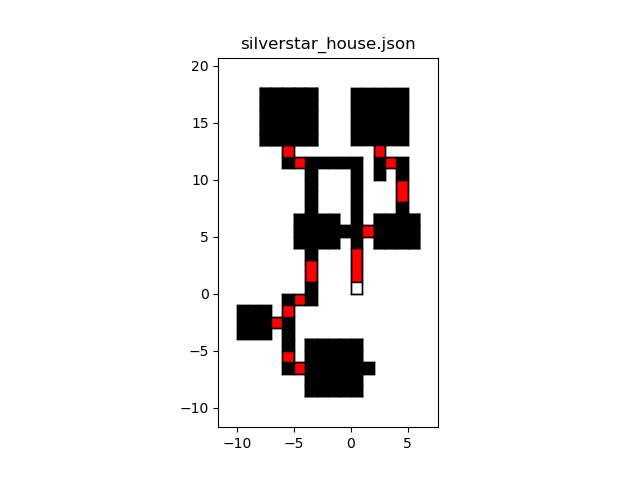
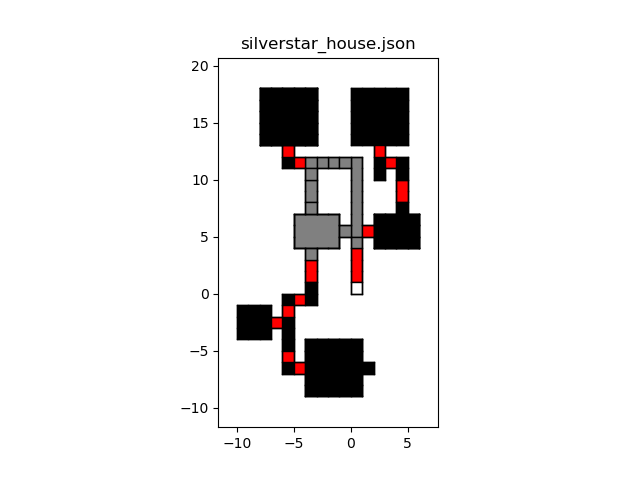
Story -1 works!

Changed region(s): [[0.4375, 0.3125, 0.5625, 0.5625]]

diff --git a/Assets/Models/add-stories.py b/Assets/Models/add-stories.py
@@ -107,33 +107,47 @@ def assign_stories(rooms):
         raise ValueError("No entrance room found at (0, 0).")
     
     entrance['story'] = 0
-    flood_fill_story([entrance], rooms)
+    flood_fill_story([entrance], rooms, story=0)
 
     # Update ramps adjacent to story 0
     update_adjacent_ramps(rooms, story=0)
 
-    # Assign story -1 to all remaining non-ramp rooms
+    # Assign story -1 by flood-filling from unvisited rooms adjacent to story 0 ramps
+    story_0_ramps = [room for room in rooms if room['type'] == 'ramp' and room['story'] == 0]
+    for ramp in story_0_ramps:
+        neighbors = find_adjacent_rooms(ramp, rooms)
+        for neighbor in neighbors:
+            if neighbor['story'] is None:  # Unvisited room
+                neighbor['story'] = -1
+                flood_fill_story([neighbor], rooms, story=-1)
+
+        # Mark the ramp itself as story -1
+        ramp['story'] = -1
+        print(f"Updated ramp at ({ramp['x']}, {ramp['y']}) to story -1.")
+
+    # Assign story -2 to all remaining non-ramp rooms
     for room in rooms:
         if room['story'] is None and room.get('type') != 'ramp':
-            room['story'] = -1
-            print(f"Assigned story -1 to room at ({room['x']}, {room['y']}).")
+            room['story'] = -2
+            print(f"Assigned story -2 to room at ({room['x']}, {room['y']}).")
 
     print("Story assignment completed.")
     return rooms
 
-# Flood-fill for assigning story 0
-def flood_fill_story(start_rooms, rooms):
+# Flood-fill for assigning stories
+def flood_fill_story(start_rooms, rooms, story):
+    """Flood-fill to assign a story."""
     queue = deque(start_rooms)
     while queue:
         current_room = queue.popleft()
-        print(f"Processing room at ({current_room['x']}, {current_room['y']}) for story 0.")
+        print(f"Processing room at ({current_room['x']}, {current_room['y']}) for story {story}.")
         neighbors = find_adjacent_rooms(current_room, rooms)
 
         for neighbor in neighbors:
             if neighbor['story'] is None and neighbor.get('type') != 'ramp':
-                neighbor['story'] = 0
+                neighbor['story'] = story
                 queue.append(neighbor)
-                print(f"Flood-filled room at ({neighbor['x']}, {neighbor['y']}) with story 0.")
+                print(f"Flood-filled room at ({neighbor['x']}, {neighbor['y']}) with story {story}.")
 
 def update_adjacent_ramps(rooms, story):
     """Update ramps adjacent to rooms with the specified story."""
@@ -144,6 +158,7 @@ def update_adjacent_ramps(rooms, story):
                 if neighbor.get('type') == 'ramp' and neighbor['story'] is None:
                     neighbor['story'] = story  # Assign the highest story
                     print(f"Updated ramp at ({neighbor['x']}, {neighbor['y']}) with story {neighbor['story']}.")
+
 
 def get_direction(room, neighbor):
     """Determine the direction of the neighbor relative to the room."""
@@ -259,4 +274,3 @@ for filename in os.listdir(directory):
             json.dump(data, f, indent=4)
 
 print("All files processed with ramps and stories assigned.")
-
